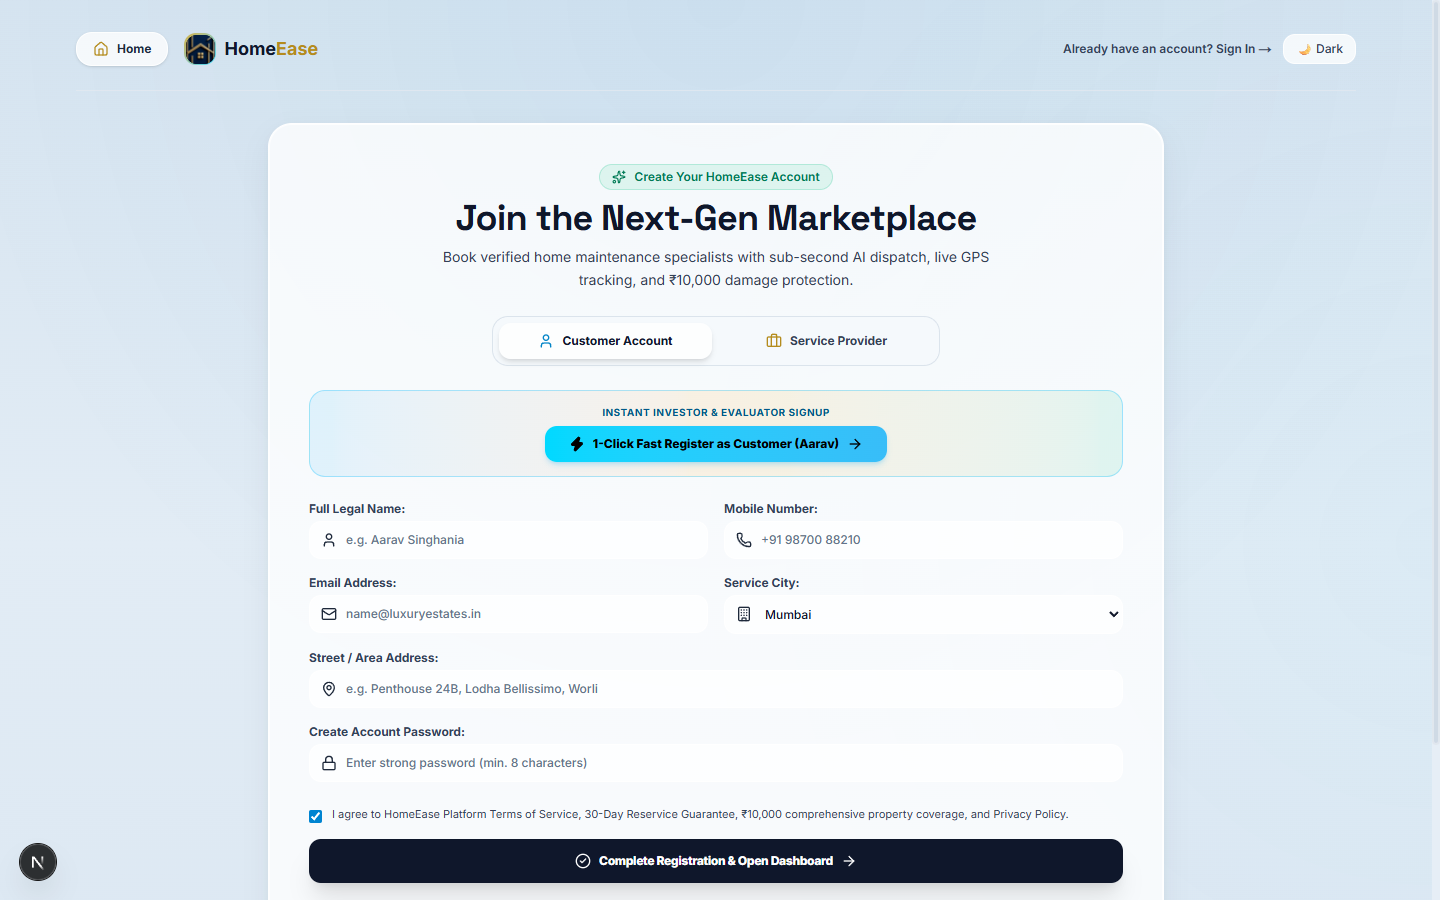
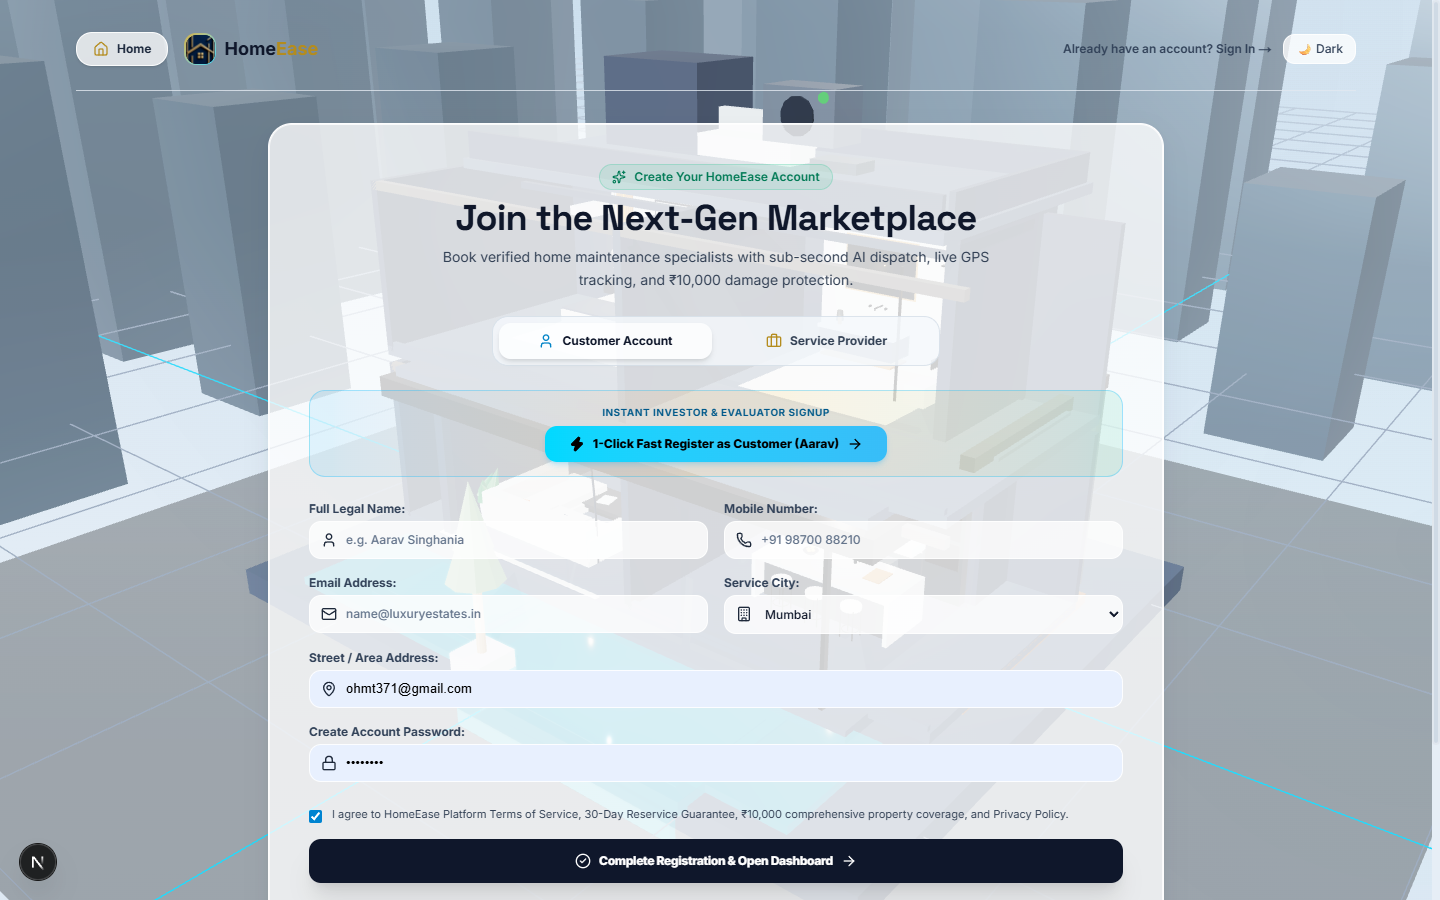
feat: render 3D villa model on customer, provider, and register portals and update screenshots

diff --git a/src/app/register/page.tsx b/src/app/register/page.tsx
@@ -1,7 +1,12 @@
 'use client';
 
 import React, { useState, useEffect } from 'react';
+import dynamic from 'next/dynamic';
 import Link from 'next/link';
+
+const BackgroundScroll3D = dynamic(() => import('@/components/3d/BackgroundScroll3D'), {
+  ssr: false,
+});
 import { useRouter } from 'next/navigation';
 import confetti from 'canvas-confetti';
 import {
@@ -130,6 +135,9 @@ export default function RegisterPage() {
 
   return (
     <main className="min-h-screen bg-[#dbe7f2] text-[#0f172a] dark:bg-[#030712] dark:text-white flex flex-col justify-between p-4 sm:p-8 relative overflow-hidden bg-mesh-pattern transition-colors duration-200">
+      {/* CONTINUOUS 3D BACKGROUND MODEL */}
+      <BackgroundScroll3D />
+
       {/* HEADER WITH HOME BUTTON & THEME TOGGLE */}
       <header className="max-w-7xl mx-auto w-full flex items-center justify-between pb-6 border-b border-slate-200/80 dark:border-white/10 z-10">
         <div className="flex items-center gap-4">

diff --git a/src/app/customer/login/page.tsx b/src/app/customer/login/page.tsx
@@ -1,7 +1,12 @@
 'use client';
 
 import React, { useState, useEffect } from 'react';
+import dynamic from 'next/dynamic';
 import Link from 'next/link';
+
+const BackgroundScroll3D = dynamic(() => import('@/components/3d/BackgroundScroll3D'), {
+  ssr: false,
+});
 import { useRouter } from 'next/navigation';
 import {
   Home,
@@ -57,6 +62,9 @@ export default function CustomerLoginPage() {
 
   return (
     <main className="min-h-screen bg-[#dbe7f2] text-[#0f172a] dark:bg-[#030712] dark:text-white flex flex-col justify-between p-4 sm:p-8 relative overflow-hidden bg-mesh-pattern transition-colors duration-200">
+      {/* CONTINUOUS 3D BACKGROUND MODEL */}
+      <BackgroundScroll3D />
+
       {/* TOP HEADER WITH PROMINENT HOME BUTTON & THEME TOGGLE */}
       <header className="max-w-7xl mx-auto w-full flex items-center justify-between pb-6 border-b border-slate-300/80 dark:border-white/10 z-10">
         <div className="flex items-center gap-4">

diff --git a/src/app/provider/login/page.tsx b/src/app/provider/login/page.tsx
@@ -1,7 +1,12 @@
 'use client';
 
 import React, { useState } from 'react';
+import dynamic from 'next/dynamic';
 import Link from 'next/link';
+
+const BackgroundScroll3D = dynamic(() => import('@/components/3d/BackgroundScroll3D'), {
+  ssr: false,
+});
 import { useRouter } from 'next/navigation';
 import {
   Home,
@@ -52,6 +57,9 @@ export default function ProviderLoginPage() {
 
   return (
     <main className="min-h-screen bg-[#dbe7f2] text-[#0f172a] dark:bg-[#030712] dark:text-white flex flex-col justify-between p-4 sm:p-8 relative overflow-hidden bg-mesh-pattern transition-colors duration-200">
+      {/* CONTINUOUS 3D BACKGROUND MODEL */}
+      <BackgroundScroll3D />
+
       {/* TOP HEADER WITH PROMINENT HOME BUTTON & THEME TOGGLE */}
       <header className="max-w-7xl mx-auto w-full flex items-center justify-between pb-6 border-b border-slate-300/80 dark:border-white/10 z-10">
         <div className="flex items-center gap-4">
